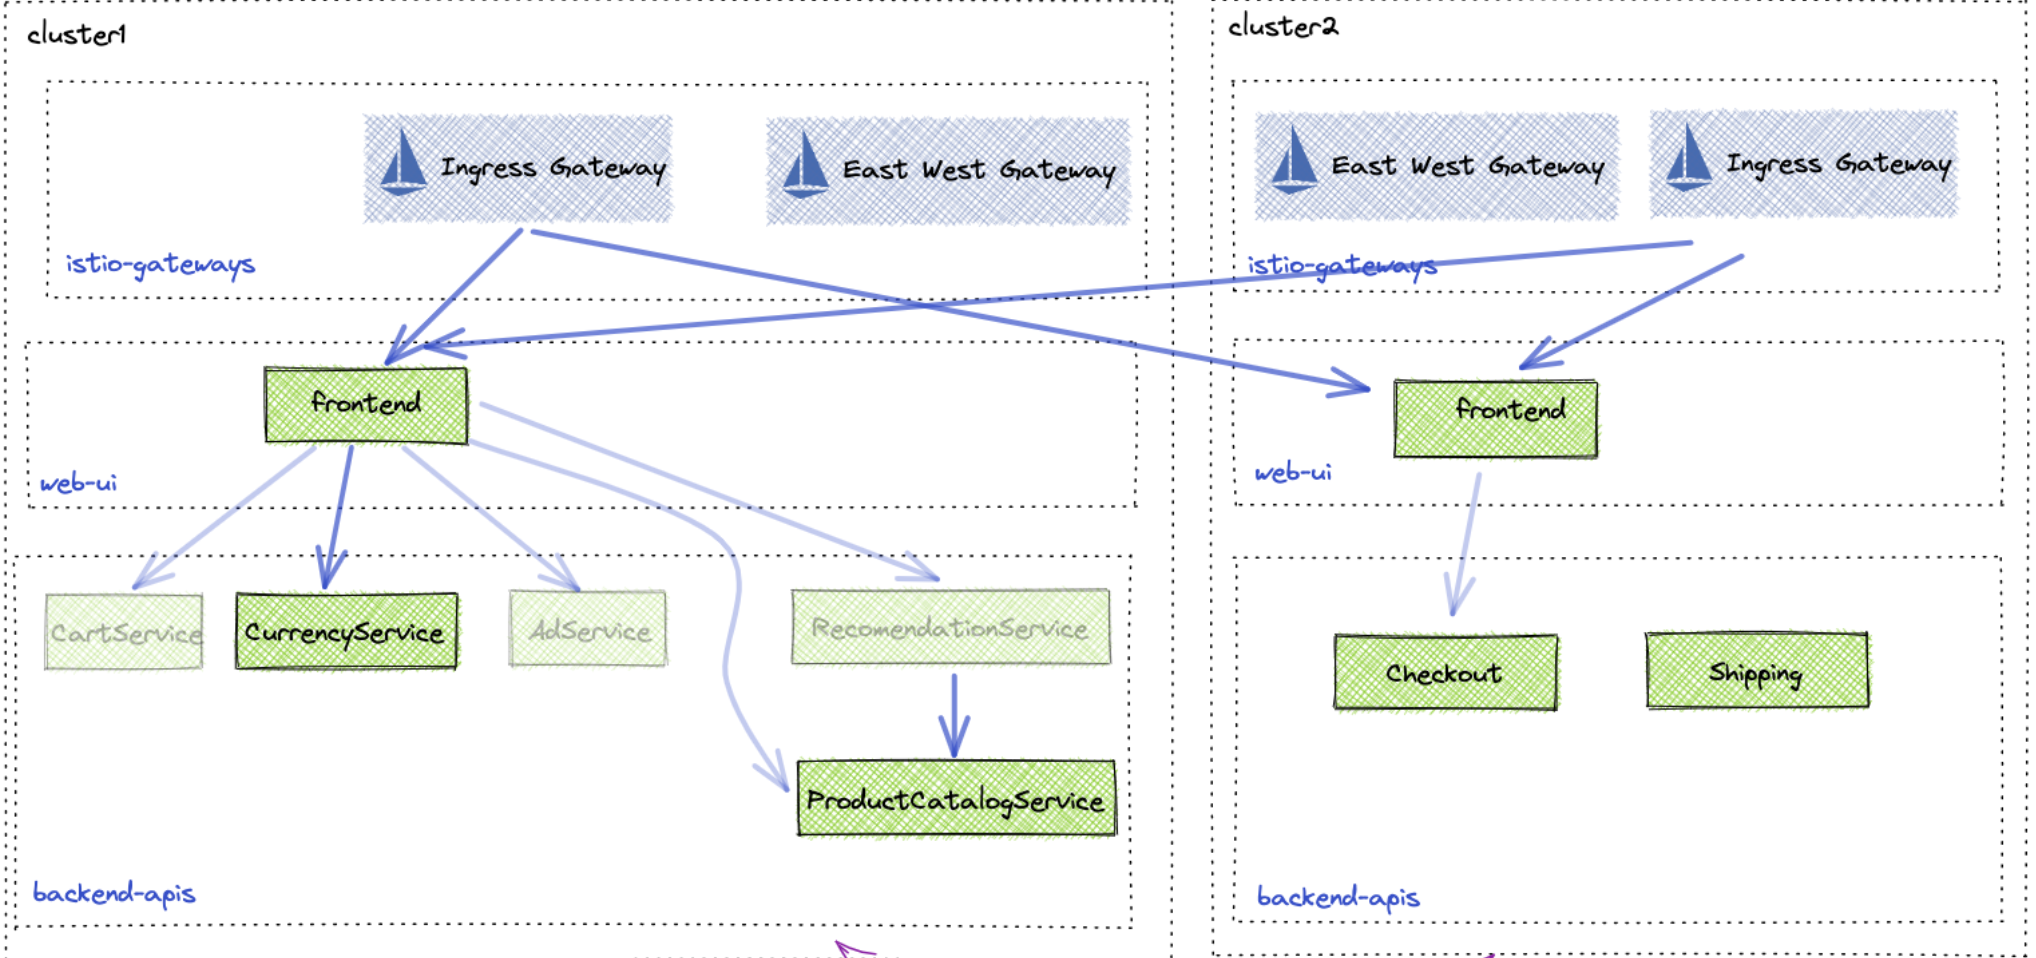
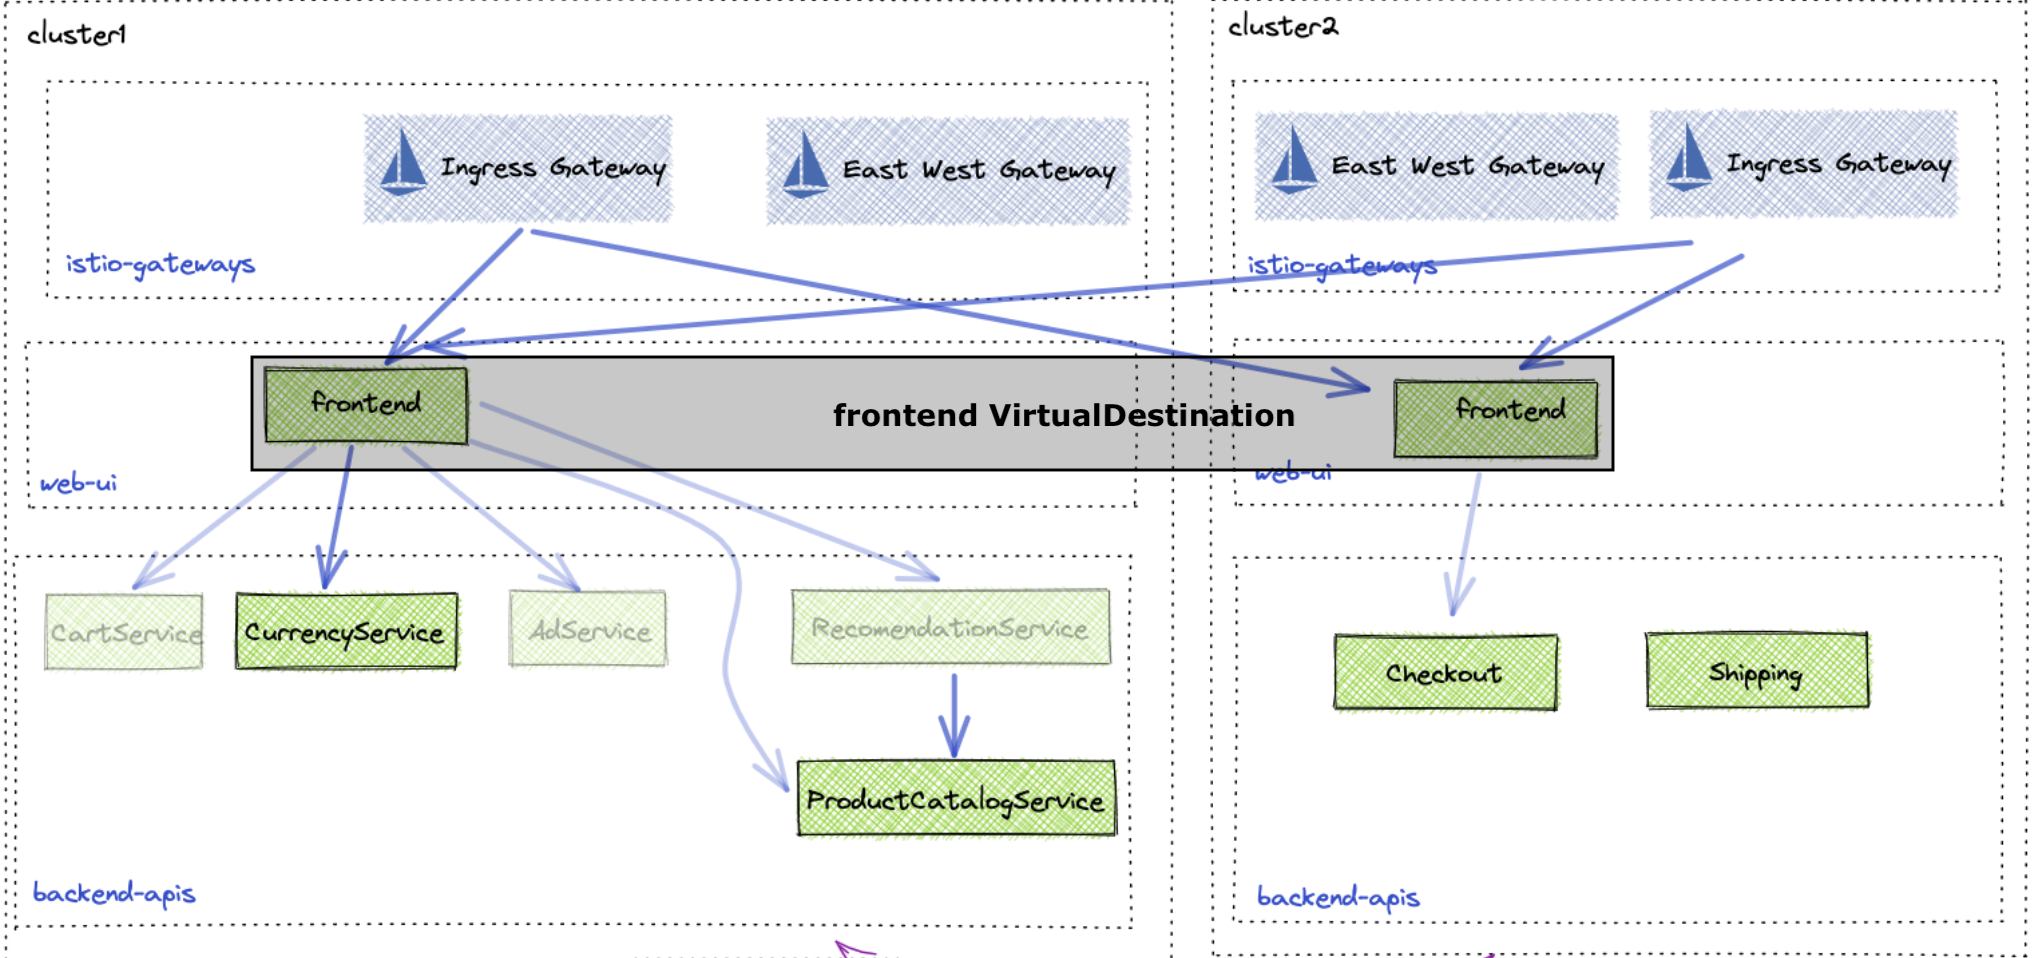
cleanup

Changed region(s): [[0.1238, 0.3633, 0.8045, 0.5146]]

diff --git a/README.md b/README.md
@@ -10,6 +10,7 @@ export GLOO_MESH_LICENSE_KEY=
 export GLOO_VERSION=2.5.1
 ```
 
+Download `meshctl`
 ```
 curl -sL https://run.solo.io/meshctl/install | GLOO_MESH_VERSION=v$GLOO_VERSION sh -
 export PATH=$HOME/.gloo-mesh/bin:$PATH
@@ -18,6 +19,10 @@ export PATH=$HOME/.gloo-mesh/bin:$PATH
 ![Alt text](images/overview.png)
 
 # Install Gloo Mesh Management & Agent on Cluster 1
+
+We'll use cluster1 as both our management and workload cluster. Typically, we recomment running the management in a separate cluster.
+
+We'll use meshctl to install Gloo Mesh for demo purposes. In production, you would use helm and install the mgmt and agent separately.
 
 ```
 meshctl install --register \
@@ -28,7 +33,7 @@ meshctl install --register \
   --set licensing.glooMeshLicenseKey=$GLOO_MESH_LICENSE_KEY
 ```
 
-Get the IP address of the Mgmt server and the telemetry gateway
+Get the IP address of the mgmt server and the telemetry gateway. These will be needed for the agent in cluster 2 to connect to it.
 ```
 export TELEMETRY_GATEWAY_IP=$(kubectl get svc -n gloo-mesh gloo-telemetry-gateway  -o jsonpath='{.status.loadBalancer.ingress[0].ip}')
 export TELEMETRY_GATEWAY_PORT=$(kubectl -n gloo-mesh get service gloo-telemetry-gateway -o jsonpath='{.spec.ports[?(@.name=="otlp")].port}')
@@ -37,6 +42,7 @@ echo $TELEMETRY_GATEWAY_ADDRESS
 ```
 
 # Install Gloo Mesh Agent on Cluster 2
+On cluster2, we don't need the mgmt server. We only need the agent, which will connect to the mgmt server in cluster1. 
 ```
 meshctl cluster register $CLUSTER2 \
   --kubecontext $CLUSTER_CONTEXT1 \
@@ -45,7 +51,7 @@ meshctl cluster register $CLUSTER2 \
   --telemetry-server-address $TELEMETRY_GATEWAY_ADDRESS
 ```
 
-# Install Istio on both clusters using ILM and GLM
+# Install Istio on both clusters using Istio Lifecycle Management (ILM and GLM)
 
 Install Istiod on cluster1:
 ```
@@ -317,7 +323,6 @@ EOF
 # Deploy Online Boutique Sample
 Cluster 1:
 ```
-
 kubectl apply --context $CLUSTER_CONTEXT1 -f https://raw.githubusercontent.com/solo-io/solo-cop/main/workshops/gloo-mesh-demo/install/online-boutique/backend-apis.yaml
 kubectl apply --context $CLUSTER_CONTEXT1 -f https://raw.githubusercontent.com/rvennam/gloo-mesh-multicluster-routing-demo/main/web-ui-cluster1.yaml
 ```
@@ -331,12 +336,15 @@ kubectl apply --context $CLUSTER_CONTEXT2 -f https://raw.githubusercontent.com/r
 # Create Workspaces
 
 ![Alt text](images/workspaces.png)
+
+We'll create these namespaces on cluster1 to store each team's mesh configuration.
 ```
 kubectl create namespace ops-team --context $CLUSTER_CONTEXT1
 kubectl create namespace web-team --context $CLUSTER_CONTEXT1
 kubectl create namespace backend-apis-team --context $CLUSTER_CONTEXT1
 ```
 
+Create the workspaces:
 ```
 kubectl --context ${CLUSTER_CONTEXT1} apply -f - <<EOF
 apiVersion: admin.gloo.solo.io/v2
@@ -385,7 +393,9 @@ kubectl apply --context $CLUSTER_CONTEXT1 -f https://raw.githubusercontent.com/s
 
 # Expose the web-ui app on both clusters
 
-Set up a HTTP listener for the ingress gateway in both the clusters:
+![Alt text](images/expose-frontend.png)
+
+Set up a HTTP (80) listener on the ingress gateway in both clusters:
 ```
 kubectl --context ${CLUSTER_CONTEXT1} apply -f - <<EOF
 apiVersion: networking.gloo.solo.io/v2
@@ -395,7 +405,7 @@ metadata:
   namespace: ops-team
 spec:
   workloads:
-    - selector:
+    - selector: # Select the gateway across both clusters
         labels:
           istio: ingressgateway
         namespace: istio-gateways
@@ -431,7 +441,7 @@ spec:
       forwardTo:
         destinations:
           - ref:
-              name: frontend
+              name: frontend # The service where traffic should go to
               namespace: web-ui
             port:
               number: 80
@@ -488,11 +498,10 @@ spec:
     - name: frontend
       labels:
         virtual-destination: frontend
-        oauth: "true"
       forwardTo:
         destinations:
           - ref:
-              name: frontend
+              name: frontend # VirtualDestination for frontend
               namespace: web-team
             kind: VIRTUAL_DESTINATION
             port:
